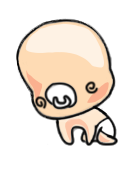
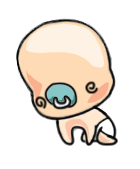
Added in main page animations/ deleted old artwork

Changed region(s): [[0.3143, 0.503, 0.5429, 0.6213]]

diff --git a/WhackwhoNew/HelloWorldLayer.m b/WhackwhoNew/HelloWorldLayer.m
@@ -97,24 +97,17 @@
         head.anchorPoint = ccp(0.5, 0); //bot mid anchorpoint
         head.visible = FALSE;
         head.position = CGPointZero; //head width: 74.5/ head height: 107
-        
-        //NSLog(@"head width: %f", head.contentSize.width);
-        //NSLog(@"head height: %f", head.contentSize.height);
-        //head.position = ccp(150, 150);
-        
         [self addChild:head];
         [heads addObject:head];
-        i++; //for key purposes
+        i++; //for key purpose
         
         //for testing
         //head.position = ccp(xpad, winSize.height/2);
         //xpad += 60;=
         //head.visible = TRUE;
     }
-    
-    
-    
-    [self schedule:@selector(tryPopheads) interval:1.5];
+
+    [self schedule:@selector(tryPopheads) interval:DEFAULT_HEAD_POP_SPEED];
      
 }
 
@@ -324,7 +317,7 @@
     //splash animation
     CCSprite *splash = [CCSprite spriteWithSpriteFrameName:@"s1.png"];
     CGPoint splashPosition = head.position;
-    splashPosition.y -= 30;
+    //splashPosition.y -= 5;
     splash.position = splashPosition;
     [splashSheet addChild:splash z:head.zOrder+1];
     
@@ -481,12 +474,15 @@
     Character *head = (Character *) sender;
 
     head.rotation = 0;
-    head.position = ccp(0,0);
-    //head.scale = 0.2;
+    head.position = CGPointZero;
     head.visible = NO;
 
     if (head.didMiss && head.isSelectedHit) {
         [scene resetConsecHits];
+    }
+    
+    if ([head children]) {
+        [head removeAllChildrenWithCleanup:YES];
     }
     
     //display rainbows according to hit streaks
@@ -571,19 +567,31 @@
 -(void) removeNode: (id) node {
     [self removeChild:node cleanup:YES];
 }
+
 -(void) generateExplosion: (id) node {
     CCSprite *temp = (CCSprite *)node;
     
     CCParticleSystem *emitter = [[CCParticleExplosion alloc] initWithTotalParticles:100];
     //set the location of the emitter
     emitter.position = ccp(temp.position.x - temp.contentSize.width, temp.position.y - 10);
-    //emitter.life = 0.2;
-    //emitter.duration = 0.5;
     emitter.scale = 0.5;
     //emitter.speed = 100;
     emitter.texture = [[CCTextureCache sharedTextureCache] addImage: @"hit effect.png"];
     //add to layer ofcourse(effect begins after this step)
     [self addChild: emitter];
+}
+
+-(void) overlayBurn: (id) node {
+    Character *head = (Character *) node;
+    
+    //head.visible = FALSE;
+    CCSprite *burntEffect = [CCSprite spriteWithFile:@"burnt_effect.png"];
+    burntEffect.anchorPoint = ccp(0,0);
+    burntEffect.position = ccp(0, 0);
+    burntEffect.scaleX = head.contentSize.width/burntEffect.contentSize.width;
+    burntEffect.scaleY = head.contentSize.height/burntEffect.contentSize.height;
+    [head addChild:burntEffect];
+
 }
 
 -(BOOL) ccTouchBegan:(UITouch *)touch withEvent:(UIEvent *)event {
@@ -637,27 +645,6 @@
             CCCallFuncN *explode = [CCCallFuncN actionWithTarget:self selector:@selector(generateExplosion:)];
             
             [hammer runAction:[CCSequence actions:easeSmash, explode, remove, nil]];
-            
-            /*CCSprite *hammer = [CCSprite spriteWithFile:@"HitWho_Hammer_Flipped.png"];
-            hammer.anchorPoint = ccp(1, 0); //bottom right
-            hammer.position = ccp(head.position.x + 10, head.position.y + 30);
-            hammer.rotation = 45;
-            [self addChild:hammer];
-            CCRotateBy *smash = [CCRotateBy actionWithDuration:0.5f angle:-70];
-            CCRotateBy *easeSmash = [CCEaseInOut actionWithAction:smash rate:3.0f];
-            CCCallFuncN *remove = [CCCallFuncN actionWithTarget:self selector:@selector(removeNode:)];
-            CCCallFuncN *explode = [CCCallFuncN actionWithTarget:self selector:@selector(generateExplosion:)];
-            
-            [hammer runAction:[CCSequence actions:easeSmash, explode, remove, nil]];*/
-            //need to remove hiteffect sprite just like the coins
-           // CCSprite *hitEffect = [CCSprite spriteWithFile:@"hit effect.png"];
-           // hitEffect.scale = 0.01;
-           // hitEffect.position = ccp(head.position.x + head.contentSize.width * head.scaleX/2, head.position.y);
-            //[self addChild:hitEffect];
-           // CCScaleTo *scaleUp = [CCScaleTo actionWithDuration:0.1 scale:1.0];
-           // CCScaleTo *scaleDown = [CCScaleTo actionWithDuration:0.1 scale:0.01];
-           // CCCallFuncN *removeHitEffect = [CCCallFuncN actionWithTarget:self selector:@selector(removeNode:)];
-            //[hitEffect runAction:[CCSequence actions:scaleUp, scaleDown, removeHitEffect, nil]];
             
             //if hit the correct "mole"
             if (head.isSelectedHit) {
@@ -723,10 +710,11 @@
                 
                 //send all heads down
                 for (Character *head in heads) {
-                    [head stopAllActions];
-                    head.visible = FALSE;
-                    head.tappable = FALSE;
-                    [head runAction:[CCCallFuncN actionWithTarget:self selector:@selector(checkCombo:)]];
+                    CCMoveBy *moveDown = [CCMoveBy actionWithDuration:0.25 position:ccp(0, -10)];
+                    CCMoveBy *easeMoveDown = [CCEaseInOut actionWithAction:moveDown rate:3.5];
+                    CCCallFuncN *checkCombo = [CCCallFuncN actionWithTarget:self selector:@selector(checkCombo:)];
+                    
+                    [head runAction:[CCSequence actions: easeMoveDown , checkCombo, nil]];
                 }
                 break;
             }
@@ -735,12 +723,16 @@
             //float rotation = CC_DEGREES_TO_RADIANS(head.rotation);
             //CCMoveBy *moveDown = [CCMoveBy actionWithDuration:0.5 position:ccp(-(5+height_now) * sin(rotation), -(height_now+5) * cos(rotation))];
             //CCMoveBy *easeMoveDown = [CCEaseOut actionWithAction:moveDown rate:3.0];
+            //need to remove hiteffect sprite just like the coins
+            
+            CCDelayTime *delay = [CCDelayTime actionWithDuration:0.25];
             CCMoveBy *moveDown = [CCMoveBy actionWithDuration:0.25 position:ccp(0, -10)];
             CCMoveBy *easeMoveDown = [CCEaseInOut actionWithAction:moveDown rate:3.5];
             
             CCCallFuncN *checkCombo = [CCCallFuncN actionWithTarget:self selector:@selector(checkCombo:)];
+            CCCallFuncN *overlayBurnt = [CCCallFuncN actionWithTarget:self selector:@selector(overlayBurn:)];
             
-            [head runAction:[CCSequence actions: easeMoveDown, checkCombo, nil]];
+            [head runAction:[CCSequence actions: overlayBurnt, easeMoveDown , checkCombo, nil]];
             
             //stop the loop as we are not support multi-touch anymore
             return YES;

diff --git a/WhackwhoNew/RootViewController.m b/WhackwhoNew/RootViewController.m
@@ -31,6 +31,7 @@
 @implementation RootViewController
 @synthesize play_but,opt_but;
 @synthesize profileImageView;
+@synthesize baby, whack_label, poster;
 
 -(void) viewDidLoad
 {
@@ -54,7 +55,45 @@
     }else{
         profileImageView.profileID = nil;
     }
+    
     [self startWalking];
+    //[self startLabelAnimation];
+    [self startPosterAnimation];
+}
+
+- (void) startPosterAnimation {
+    NSArray * imageArray  = [[NSArray alloc] initWithObjects:
+                             [UIImage imageNamed:@"Main_Poster1.png"],
+                             [UIImage imageNamed:@"Main_Poster2.png"],
+                             nil];
+    poster.animationImages = imageArray;
+    poster.animationDuration = 0.25;
+    poster.animationRepeatCount = 0;
+    [poster startAnimating];
+}
+
+- (void) startLabelAnimation {
+    NSArray * imageArray  = [[NSArray alloc] initWithObjects:
+                             [UIImage imageNamed:@"whackwho1.png"],
+                             [UIImage imageNamed:@"whackwho2.png"],
+                             [UIImage imageNamed:@"whgackwho3.png"],
+                             nil];
+    whack_label.animationImages = imageArray;
+    whack_label.animationDuration = 1;
+    whack_label.animationRepeatCount = 0;
+    //CGPoint p = whack_label.center;
+    //p.x -= 408;
+    //ryuJump.center = p;
+    
+    //[UIView animateWithDuration:30
+      //                    delay:0
+        //                options: UIViewAnimationOptionCurveLinear
+          //           animations:^{
+            //             baby.center = CGPointMake(p.x, p.y);
+              //       }
+                //     completion:^(BOOL finished){
+                  //   }];
+    [whack_label startAnimating];
 }
 
 - (void)startWalking {
@@ -66,12 +105,10 @@
                              [UIImage imageNamed:@"baby5.png"],
                              [UIImage imageNamed:@"baby6.png"],
                              nil];
-    UIImageView * ryuJump = [[UIImageView alloc] initWithFrame:
-                             CGRectMake(408, 233, 72, 81)];
-    ryuJump.animationImages = imageArray;
-    ryuJump.animationDuration = 2;
-    ryuJump.animationRepeatCount = 15;
-    CGPoint p = ryuJump.center;
+    baby.animationImages = imageArray;
+    baby.animationDuration = 2;
+    baby.animationRepeatCount = 0;
+    CGPoint p = baby.center;
     p.x -= 408;
     //ryuJump.center = p;
     
@@ -79,13 +116,11 @@
                           delay:0
                         options: UIViewAnimationOptionCurveLinear
                      animations:^{
-                         ryuJump.center = CGPointMake(p.x, p.y);
+                         baby.center = CGPointMake(p.x, p.y);
                      }
                      completion:^(BOOL finished){
                      }];
-    //ryuJump.contentMode = UIViewContentModeBottomLeft;
-    [self.view addSubview:ryuJump];
-    [ryuJump startAnimating];
+    [baby startAnimating];
 }
 
 

diff --git a/WhackwhoNew/RootViewController.h b/WhackwhoNew/RootViewController.h
@@ -18,6 +18,10 @@
     
     UIButton *play_but;
     UIButton *opt_but;
+    IBOutlet UIImageView *baby;
+    IBOutlet UIImageView *whack_label;
+    IBOutlet UIImageView *poster;
+
     
 @private
     UserInfo *usr;
@@ -28,6 +32,9 @@
 
 @property (nonatomic) IBOutlet UIButton *play_but;
 @property (nonatomic) IBOutlet UIButton *opt_but;
+@property (nonatomic) IBOutlet IBOutlet UIImageView *baby;
+@property (nonatomic) IBOutlet IBOutlet UIImageView *whack_label;
+@property (nonatomic) IBOutlet IBOutlet UIImageView *poster;
 
 -(IBAction)play_touched:(id)sender;
 -(IBAction)opt_touched:(id)sender;

diff --git a/WhackwhoNew/WhackwhoNew/libs/cocos2d/CCParticleExamples.m b/WhackwhoNew/WhackwhoNew/libs/cocos2d/CCParticleExamples.m
@@ -672,7 +672,7 @@
 		endColorVar.b = 0.0f;
 		endColorVar.a = 0.0f;
         
-		self.texture = [[CCTextureCache sharedTextureCache] addImage: @"fire.png"];
+		//self.texture = [[CCTextureCache sharedTextureCache] addImage: @"fire.png"];
         
 		// additive
 		self.blendAdditive = NO;
